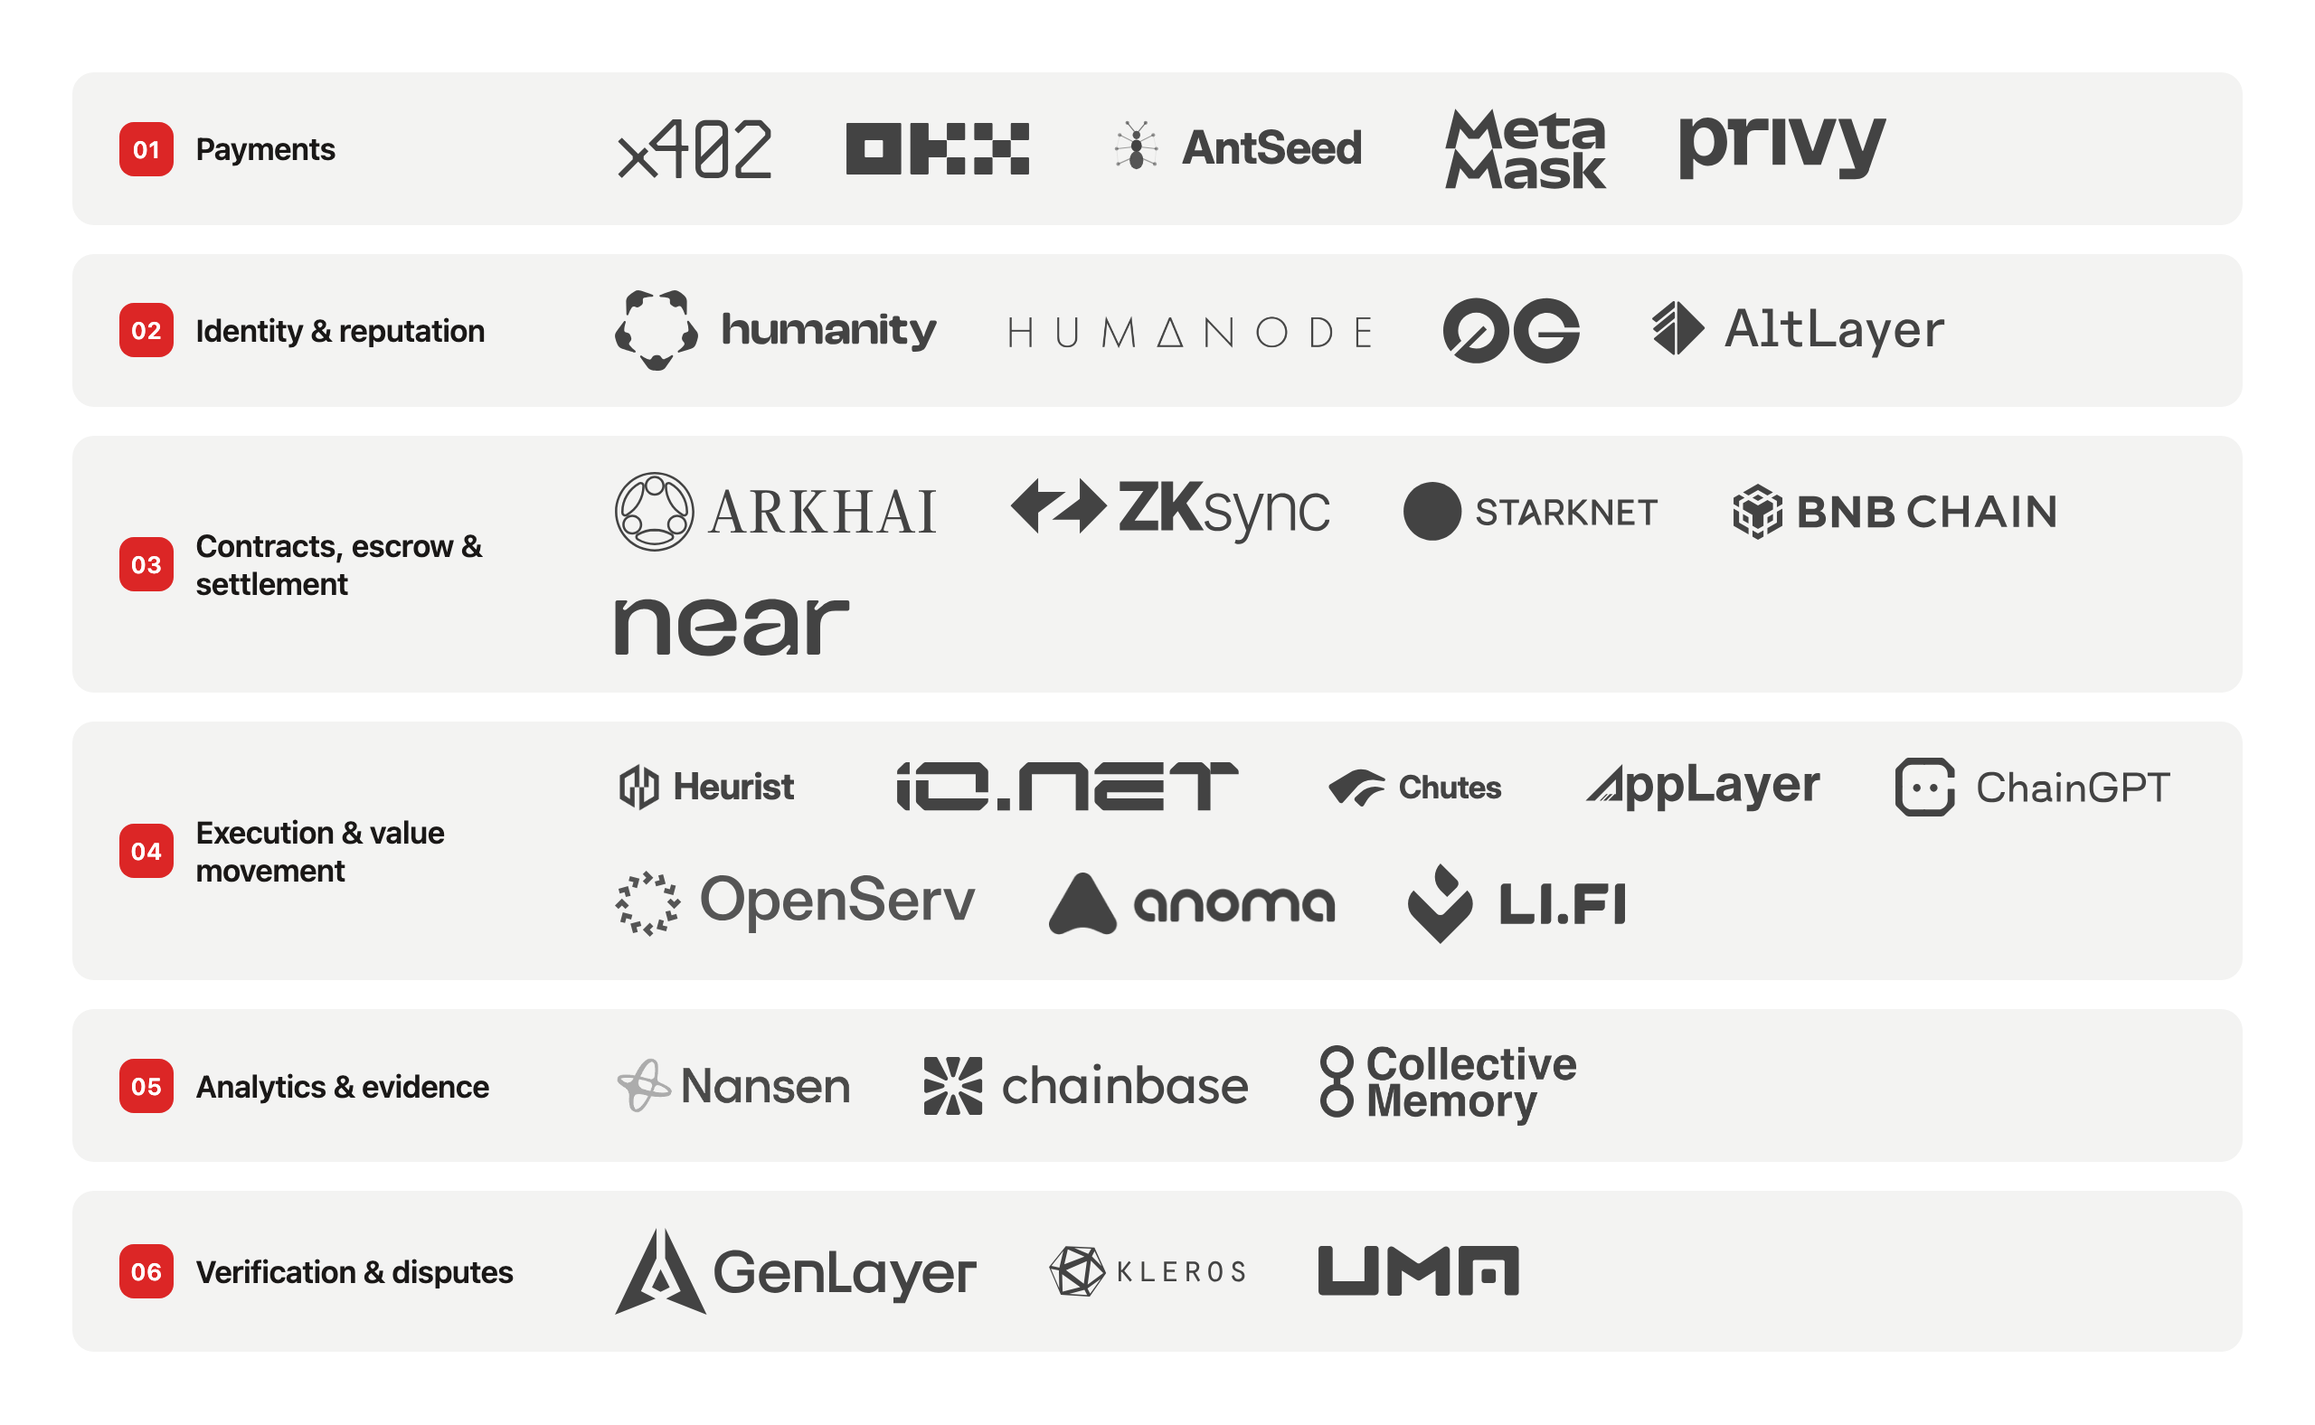
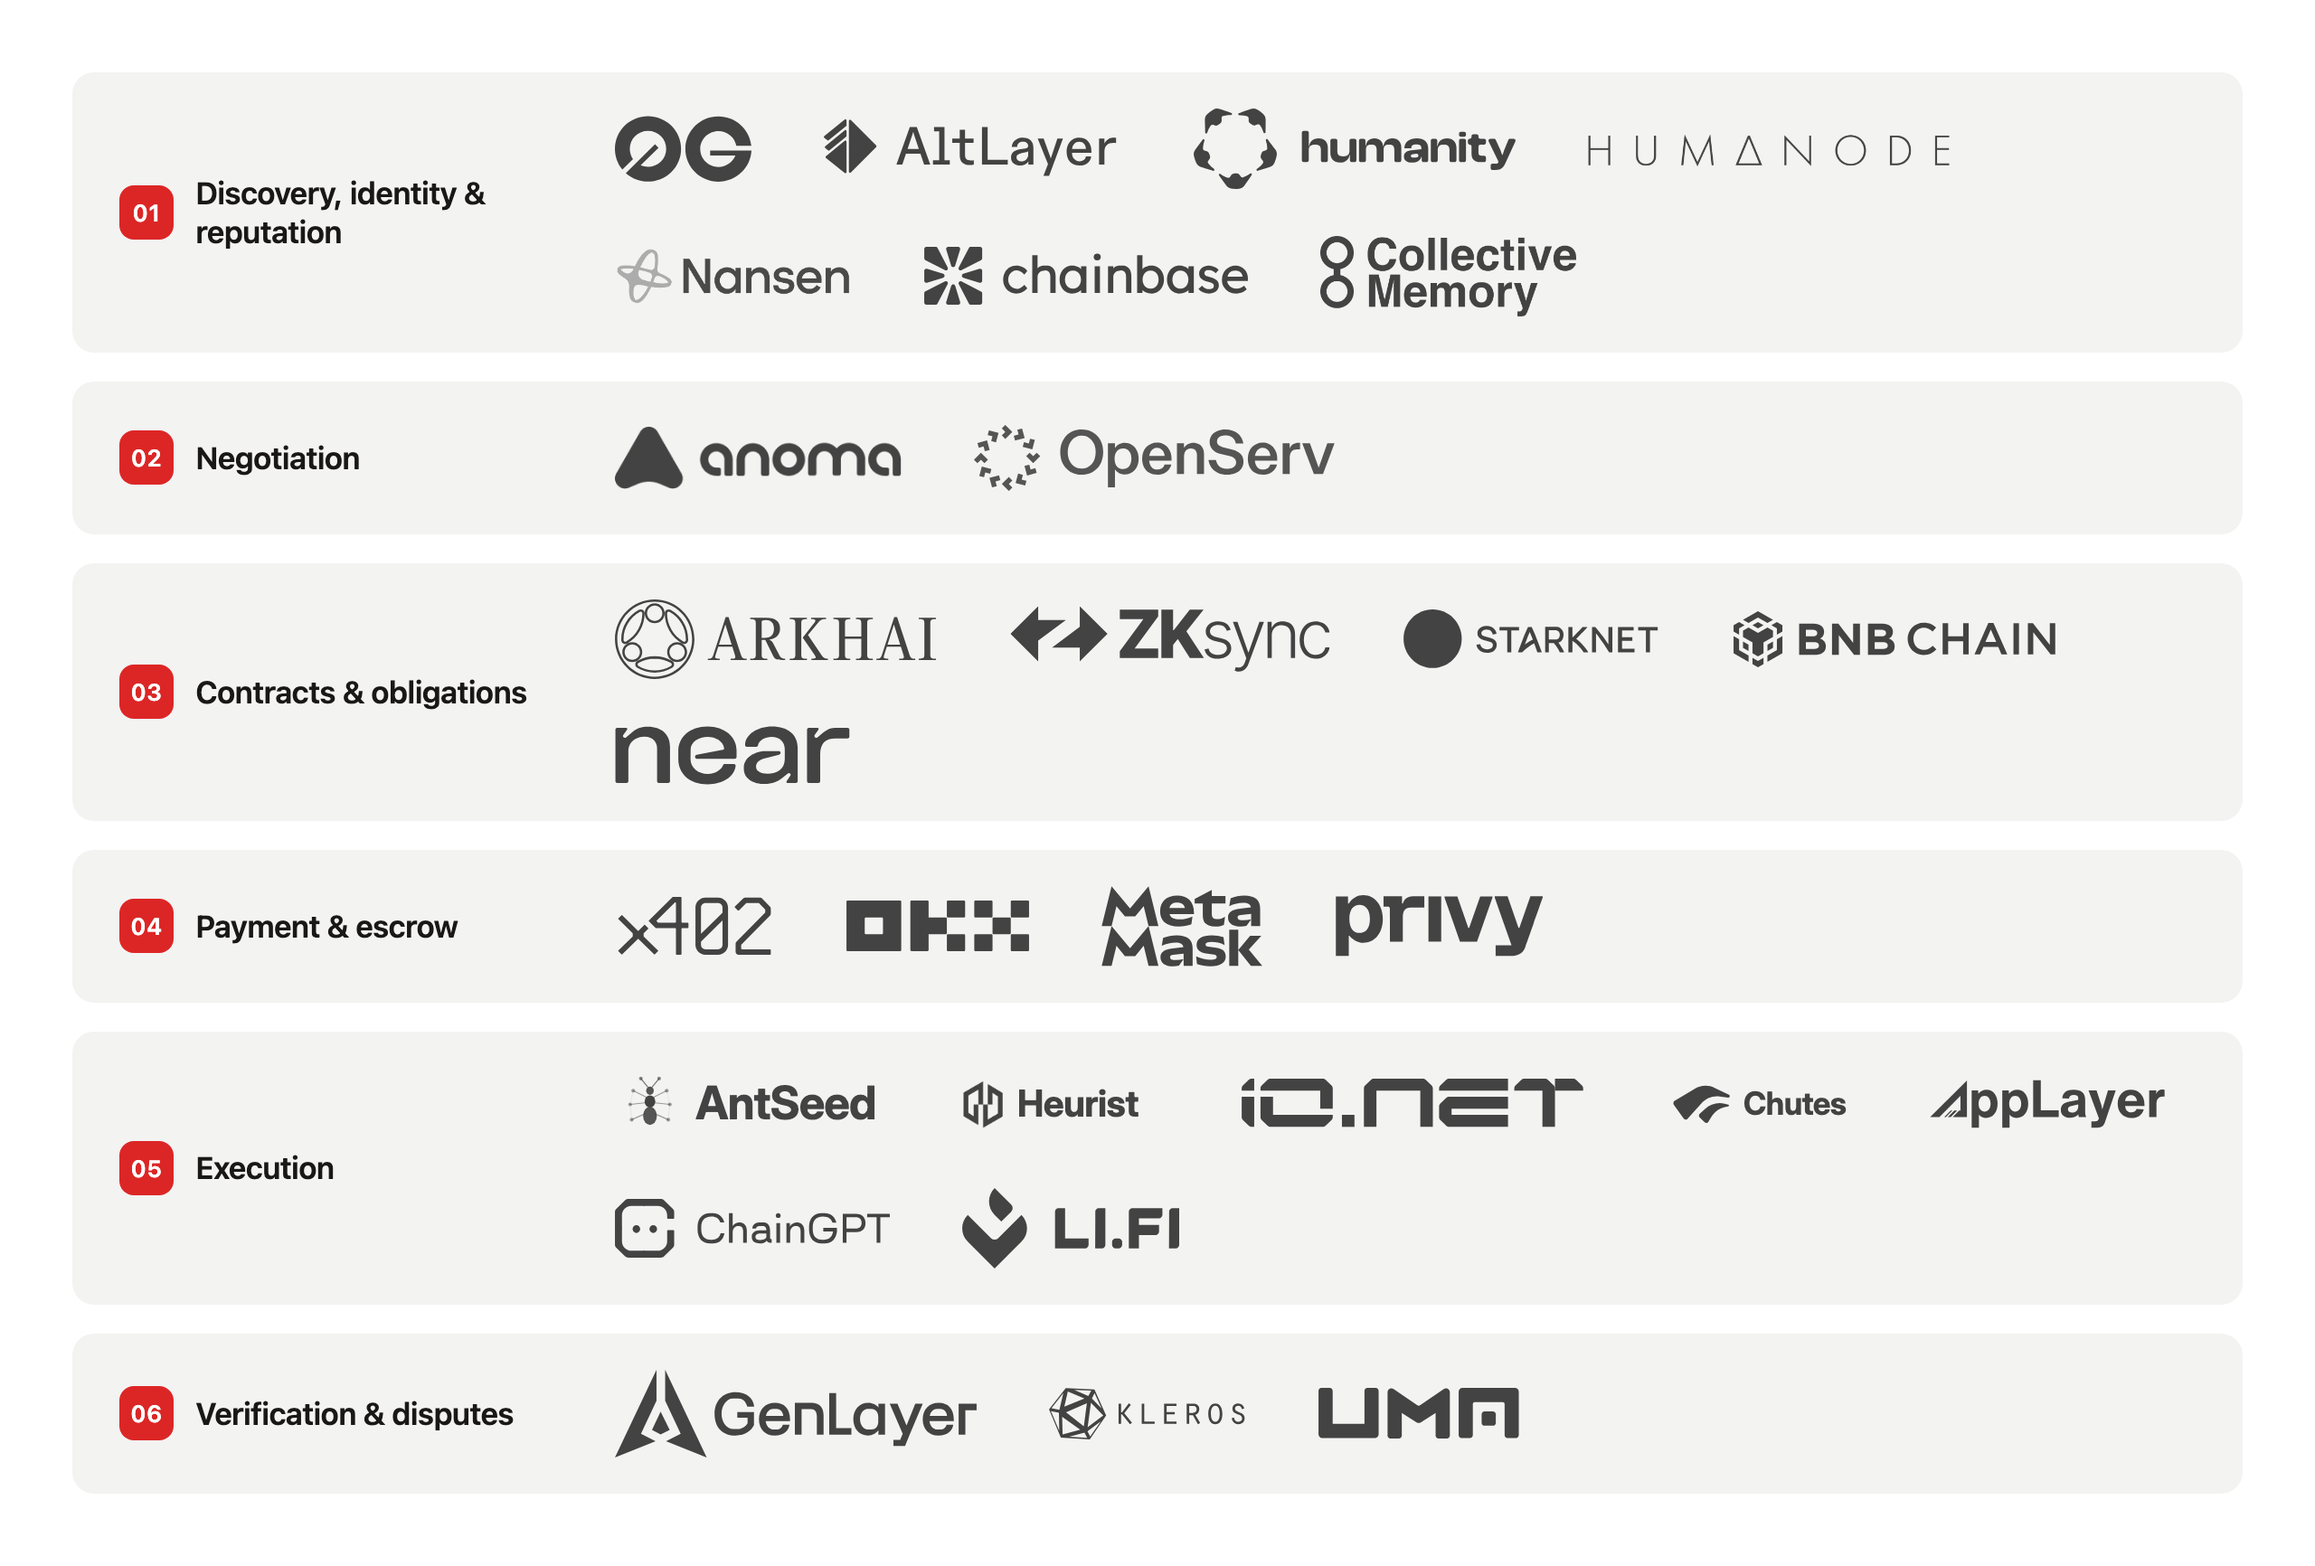
fix: members-by-layer image uses homepage stack layers
Regenerate the founding-members infographic with the six homepage layer labels, move AntSeed to execution and MetaMask to payment and escrow, and sync the generator and docs.

diff --git a/frontend/tools/blog-images/founding-members-by-layer.html b/frontend/tools/blog-images/founding-members-by-layer.html
@@ -3,9 +3,13 @@
   Generator for /media/blog/founding-members-by-layer.png
   Embedded in: frontend/src/content/blog/en/internet-court-agentic-commerce.mdx
 
-  Founding members grouped by layer, six rows, each member once. Each member's
-  real logo is pulled from frontend/public/partners/ and rendered as a
-  monochrome silhouette via CSS filter: grayscale(1) brightness(0); opacity: 0.72.
+  Founding members grouped by layer, six rows, each member once. The six rows
+  use the SAME layer labels and order as the homepage stack image
+  (agentic-stack.html / STACK_ROWS): 01 Discovery, identity & reputation;
+  02 Negotiation; 03 Contracts & obligations; 04 Payment & escrow; 05 Execution;
+  06 Verification & disputes. Each member's real logo is pulled from
+  frontend/public/partners/ and rendered as a monochrome silhouette via CSS
+  filter: grayscale(1) brightness(0); opacity: 0.72.
 
   SIZING RULE (matches the homepage partner grid):
   Every logo's height is its `gridHeight` from FOUNDING_MEMBERS_GRID in
@@ -35,10 +39,10 @@
   partners/... .
 
   Render command (macOS system headless Chrome, 2x device scale):
-  "/Applications/Google Chrome.app/Contents/MacOS/Google Chrome" --headless=new --disable-gpu --hide-scrollbars --force-device-scale-factor=2 --allow-file-access-from-files --window-size=1280,788 --screenshot="/Users/rasca/Dev/moltcourt2/frontend/public/media/blog/founding-members-by-layer.png" "file:///Users/rasca/Dev/moltcourt2/frontend/tools/blog-images/founding-members-by-layer.html"
+  "/Applications/Google Chrome.app/Contents/MacOS/Google Chrome" --headless=new --disable-gpu --hide-scrollbars --force-device-scale-factor=2 --allow-file-access-from-files --window-size=1280,866 --screenshot="/Users/rasca/Dev/moltcourt2/frontend/public/media/blog/founding-members-by-layer.png" "file:///Users/rasca/Dev/moltcourt2/frontend/tools/blog-images/founding-members-by-layer.html"
 
-  Output: 1280x788 CSS layout rendered at 2x, so the PNG is 2560x1576.
-  The window height (788) was measured to fit the content tightly. If members
+  Output: 1280x866 CSS layout rendered at 2x, so the PNG is 2560x1732.
+  The window height (866) was measured to fit the content tightly. If members
   or their gridHeights change, re-measure the rendered content height and update
   --window-size.
 -->
@@ -118,28 +122,28 @@
   <div class="rows">
 
     <div class="row">
-      <div class="label"><div class="badge">01</div><div class="label-text">Payments</div></div>
+      <div class="label"><div class="badge">01</div><div class="label-text">Discovery, identity &amp; reputation</div></div>
       <div class="logos">
-        <img src="../../public/partners/x402.svg" style="height:32.4px">
-        <img src="../../public/partners/okx.svg" style="height:28.35px">
-        <img src="../../public/partners/antseed.svg" style="height:40.5px">
-        <img src="../../public/partners/metamask.svg" style="height:44.55px">
-        <img src="../../public/partners/privy.svg" style="height:34.222px">
-      </div>
-    </div>
-
-    <div class="row">
-      <div class="label"><div class="badge">02</div><div class="label-text">Identity &amp; reputation</div></div>
-      <div class="logos">
-        <img src="../../public/partners/humanity-protocol.svg" style="height:44.347px">
-        <img src="../../public/partners/humanode.png" style="height:26.325px">
         <img src="../../public/partners/0g-labs.svg" style="height:36.45px">
         <img src="../../public/partners/altlayer.svg" style="height:32.4px">
+        <img src="../../public/partners/humanity-protocol.svg" style="height:44.347px">
+        <img src="../../public/partners/humanode.png" style="height:26.325px">
+        <img src="../../public/partners/nansen.png" style="height:32.4px">
+        <img src="../../public/partners/chainbase.svg" style="height:31.995px">
+        <img src="../../public/partners/collective-memory.png" style="height:44.55px">
       </div>
     </div>
 
     <div class="row">
-      <div class="label"><div class="badge">03</div><div class="label-text">Contracts, escrow &amp; settlement</div></div>
+      <div class="label"><div class="badge">02</div><div class="label-text">Negotiation</div></div>
+      <div class="logos">
+        <img src="../../public/partners/anoma.png" style="height:34.425px">
+        <img src="../../public/partners/openserv.svg" style="height:44.55px">
+      </div>
+    </div>
+
+    <div class="row">
+      <div class="label"><div class="badge">03</div><div class="label-text">Contracts &amp; obligations</div></div>
       <div class="logos">
         <img src="../../public/partners/arkhai.svg" style="height:43.943px">
         <img src="../../public/partners/zksync.svg" style="height:38.273px">
@@ -150,25 +154,25 @@
     </div>
 
     <div class="row">
-      <div class="label"><div class="badge">04</div><div class="label-text">Execution &amp; value movement</div></div>
+      <div class="label"><div class="badge">04</div><div class="label-text">Payment &amp; escrow</div></div>
       <div class="logos">
+        <img src="../../public/partners/x402.svg" style="height:32.4px">
+        <img src="../../public/partners/okx.svg" style="height:28.35px">
+        <img src="../../public/partners/metamask.svg" style="height:44.55px">
+        <img src="../../public/partners/privy.svg" style="height:34.222px">
+      </div>
+    </div>
+
+    <div class="row">
+      <div class="label"><div class="badge">05</div><div class="label-text">Execution</div></div>
+      <div class="logos">
+        <img src="../../public/partners/antseed.svg" style="height:40.5px">
         <img src="../../public/partners/heurist.svg" style="height:32.4px">
         <img src="../../public/partners/io-net.svg" style="height:28.35px">
         <img src="../../public/partners/chutes.svg" style="height:27.844px">
         <img src="../../public/partners/applayer.svg" style="height:30.983px">
         <img src="../../public/partners/chaingpt.svg" style="height:32.4px">
-        <img src="../../public/partners/openserv.svg" style="height:44.55px">
-        <img src="../../public/partners/anoma.png" style="height:34.425px">
         <img src="../../public/partners/lifi.svg" style="height:44.55px">
-      </div>
-    </div>
-
-    <div class="row">
-      <div class="label"><div class="badge">05</div><div class="label-text">Analytics &amp; evidence</div></div>
-      <div class="logos">
-        <img src="../../public/partners/nansen.png" style="height:32.4px">
-        <img src="../../public/partners/chainbase.svg" style="height:31.995px">
-        <img src="../../public/partners/collective-memory.png" style="height:44.55px">
       </div>
     </div>
 

diff --git a/frontend/tools/blog-images/README.md b/frontend/tools/blog-images/README.md
@@ -32,26 +32,26 @@ Fonts are Inter and JetBrains Mono, loaded from Google Fonts, with system fallba
 
 ## Image 2: founding-members-by-layer.png
 
-What it shows: the founding members grouped by the layer each one serves. Six light gray rounded rows, each with a red 01 to 06 badge and a layer name in the fixed-width label column on the left, and the members' real logos to the right. Each logo is rendered as a monochrome silhouette using `filter: grayscale(1) brightness(0); opacity: 0.72`, object-fit contain, with wrapping allowed, and the logos in a row are vertically centered on a common center line.
+What it shows: the founding members grouped by the layer each one serves. The six rows use the same layer labels and order as the homepage stack image (`agentic-stack.png`), so the two images line up: 01 Discovery, identity & reputation; 02 Negotiation; 03 Contracts & obligations; 04 Payment & escrow; 05 Execution; 06 Verification & disputes. Six light gray rounded rows, each with a red 01 to 06 badge and a layer name in the fixed-width label column on the left, and the members' real logos to the right. Each logo is rendered as a monochrome silhouette using `filter: grayscale(1) brightness(0); opacity: 0.72`, object-fit contain, with wrapping allowed, and the logos in a row are vertically centered on a common center line.
 
 Logo sizing rule (matches the homepage partner grid): each logo's height is its `gridHeight` from `FOUNDING_MEMBERS_GRID` in `frontend/src/lib/site-content.ts`, multiplied by the homepage desktop multiplier `SCALE = 1.5` (from `frontend/src/components/site/PartnerGrid.tsx`), then by a single uniform infographic scale factor of 1.35 applied to every logo so the image reads crisply at 2x. The net per-logo multiplier is therefore 1.5 x 1.35 = 2.025, so the relative heights of the logos in the image equal the ratios of their `gridHeight` values exactly, just as on the homepage (wordmarks like GenLayer, MetaMask, LI.FI, OpenServ and Collective Memory read larger; smaller marks like Humanode, OKX, UMA and io.net read smaller). The uniform 1.35 factor scales the whole set together and preserves every ratio; do not hand-tune individual logos. Heights are set inline per logo in px (`gridHeight * 2.025`). If any `gridHeight` changes in `site-content.ts`, recompute that logo's inline height in the generator and re-render.
 
 Kleros is not in `FOUNDING_MEMBERS_GRID` (it is a dispute standard, not a founding member). It is given a manual `gridHeight` of 14, equal to UMA's value, so it sits proportionally next to its neighbor; the generator carries an HTML comment noting this manual value.
 
-Source of truth for the grouping: this is an explicit list maintained in the generator itself (there is no single data file for the by-layer grouping). Each member appears once, in this order:
+Source of truth for the grouping: this is an explicit list maintained in the generator itself (there is no single data file for the by-layer grouping). The six layer labels and their order match the homepage stack (`STACK_ROWS` in `frontend/src/lib/site-content.ts`). Each member appears once, in this order:
 
-1. Payments: x402, OKX, AntSeed, MetaMask, Privy
-2. Identity & reputation: Humanity Protocol, Humanode, 0G Labs, AltLayer
-3. Contracts, escrow & settlement: Arkhai, ZKsync, Starknet, BNB Chain, NEAR
-4. Execution & value movement: Heurist, io.net, Chutes, AppLayer, ChainGPT, OpenServ, Anoma, LI.FI
-5. Analytics & evidence: Nansen, Chainbase, Collective Memory
+1. Discovery, identity & reputation: 0G Labs, AltLayer, Humanity Protocol, Humanode, Nansen, Chainbase, Collective Memory
+2. Negotiation: Anoma, OpenServ
+3. Contracts & obligations: Arkhai, ZKsync, Starknet, BNB Chain, NEAR
+4. Payment & escrow: x402, OKX, MetaMask, Privy
+5. Execution: AntSeed, Heurist, io.net, Chutes, AppLayer, ChainGPT, LI.FI
 6. Verification & disputes: GenLayer, Kleros, UMA
 
 Logos come from `frontend/public/partners/`. The generator references them relatively as `../../public/partners/...` .
 
 Generator: `founding-members-by-layer.html`
 Output path: `frontend/public/media/blog/founding-members-by-layer.png`
-Output dimensions: 2560x1576 (a 1280x788 CSS layout rendered at 2x).
+Output dimensions: 2560x1732 (a 1280x866 CSS layout rendered at 2x).
 
 ## Render commands
 
@@ -66,12 +66,12 @@ Stack:
 Members (the logos are loaded from disk, so you must either pass `--allow-file-access-from-files` as shown, or copy the partner logos next to the HTML and change the src paths to `partners/...`):
 
 ```
-"/Applications/Google Chrome.app/Contents/MacOS/Google Chrome" --headless=new --disable-gpu --hide-scrollbars --force-device-scale-factor=2 --allow-file-access-from-files --window-size=1280,788 --screenshot="/Users/rasca/Dev/moltcourt2/frontend/public/media/blog/founding-members-by-layer.png" "file:///Users/rasca/Dev/moltcourt2/frontend/tools/blog-images/founding-members-by-layer.html"
+"/Applications/Google Chrome.app/Contents/MacOS/Google Chrome" --headless=new --disable-gpu --hide-scrollbars --force-device-scale-factor=2 --allow-file-access-from-files --window-size=1280,866 --screenshot="/Users/rasca/Dev/moltcourt2/frontend/public/media/blog/founding-members-by-layer.png" "file:///Users/rasca/Dev/moltcourt2/frontend/tools/blog-images/founding-members-by-layer.html"
 ```
 
 ## Window heights
 
-The window heights (722 for the stack, 788 for the members) were measured to fit the content tightly with no extra whitespace at the bottom. If you add or remove rows, if the members wrap onto more or fewer lines, or if any `gridHeight` changes and alters the logo heights, re-measure the rendered content height and update the `--window-size` value before re-rendering. A quick way to measure is to add a small script that reads `document.getElementById('stage').getBoundingClientRect().height` (or the equivalent container) and reports it, then round up.
+The window heights (722 for the stack, 866 for the members) were measured to fit the content tightly with no extra whitespace at the bottom. If you add or remove rows, if the members wrap onto more or fewer lines, or if any `gridHeight` changes and alters the logo heights, re-measure the rendered content height and update the `--window-size` value before re-rendering. A quick way to measure is to add a small script that reads `document.getElementById('stage').getBoundingClientRect().height` (or the equivalent container) and reports it, then round up.
 
 ## Prerequisites
 
